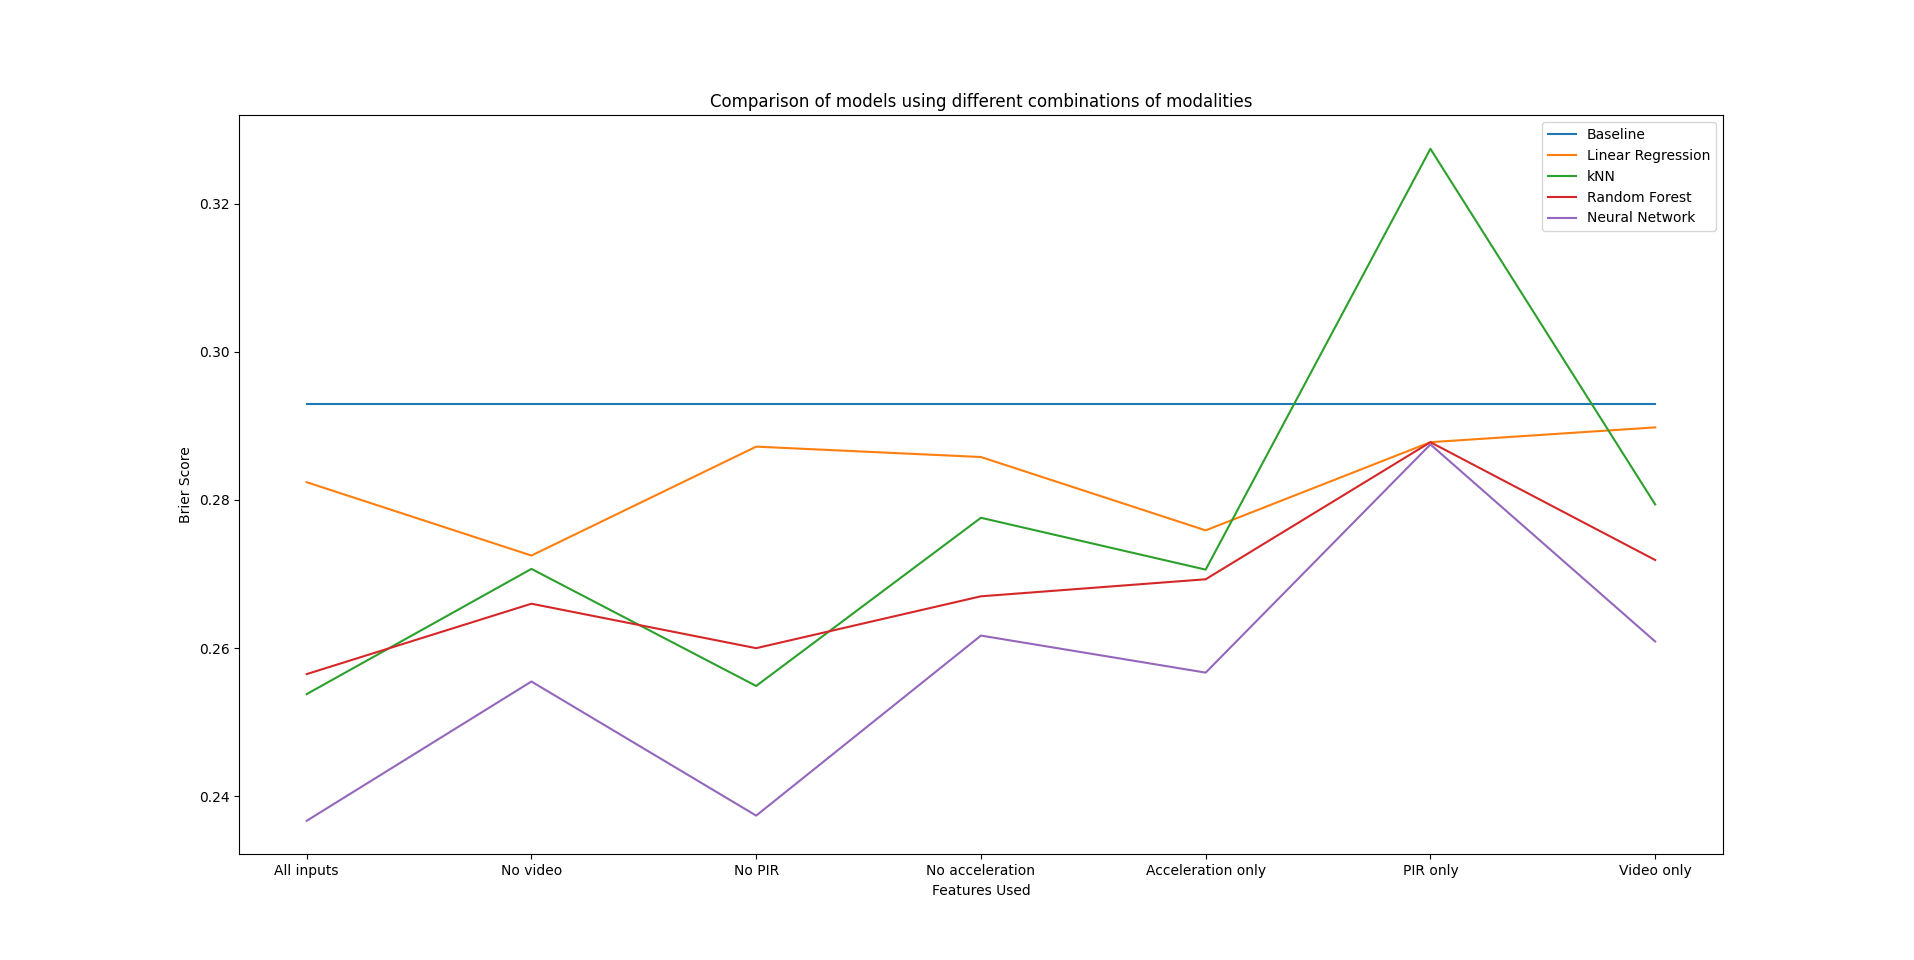
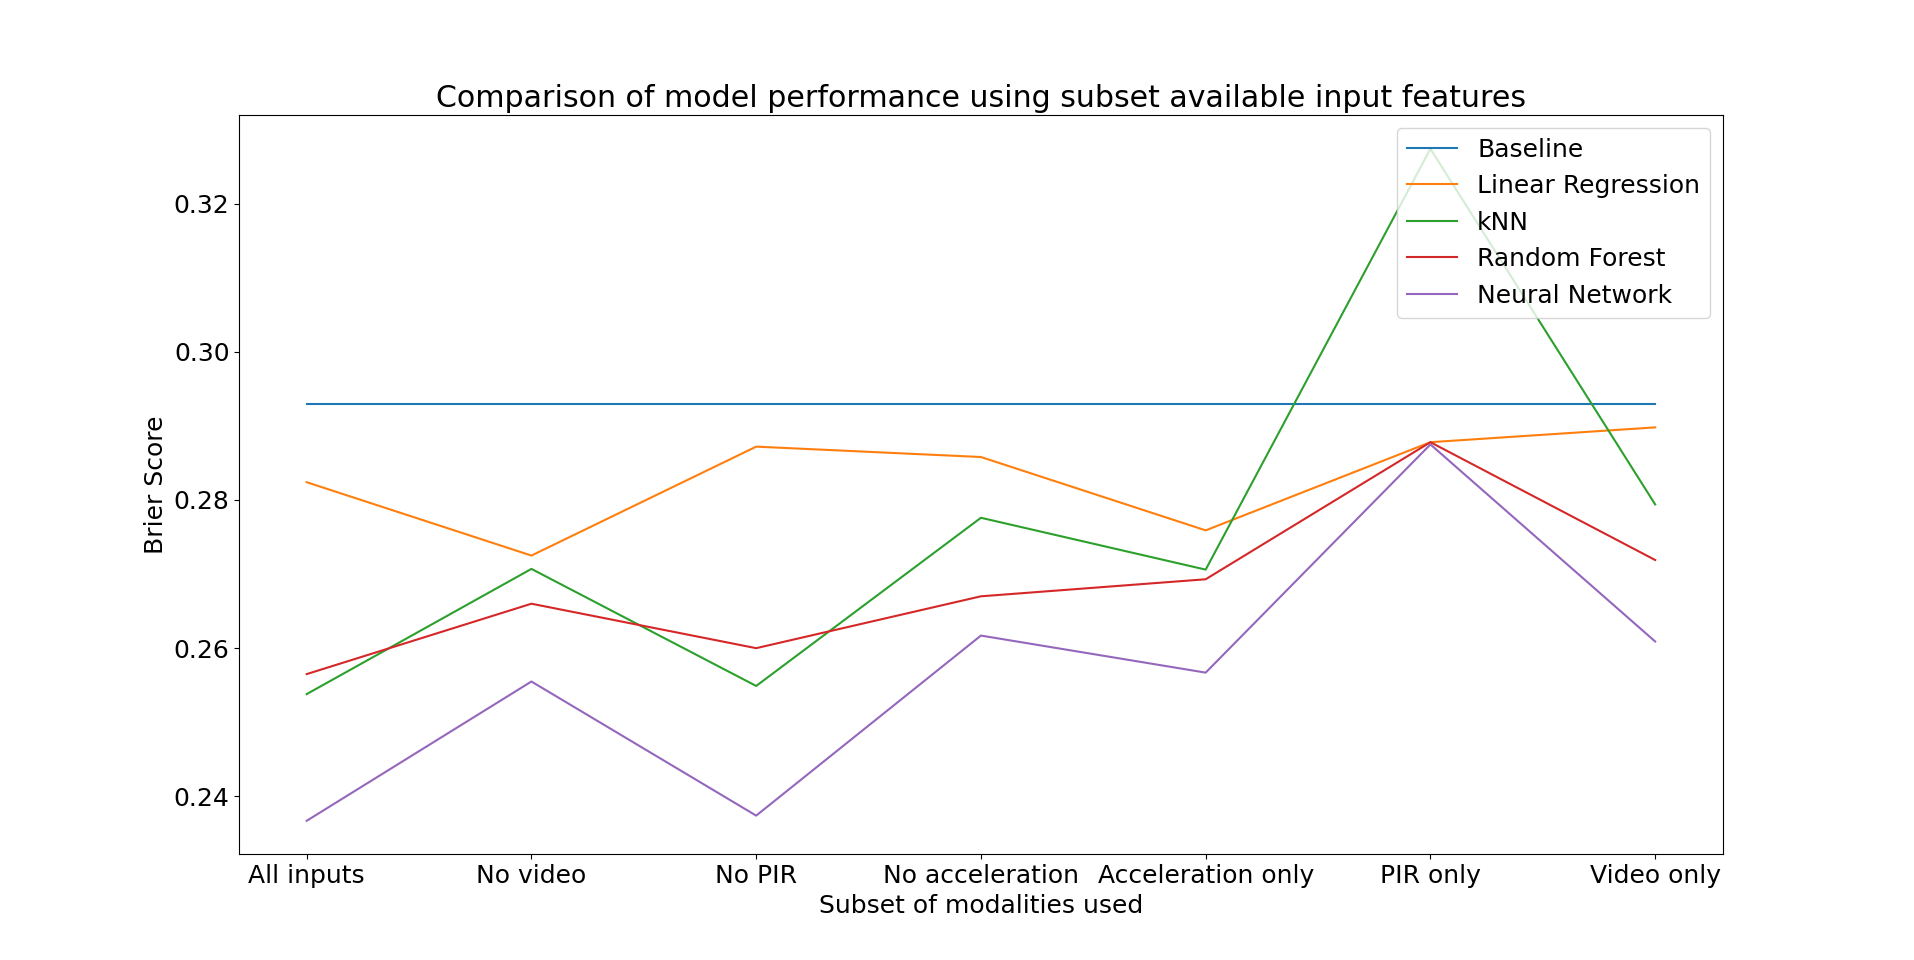
Updates

diff --git a/test_models.py b/test_models.py
@@ -1,3 +1,5 @@
+# Original Source: https://github.com/IRC-SPHERE/sphere-challenge/blob/master/jupyter/sphere-baseline.ipynb
+
 import pandas as pd
 import numpy as np
 import sklearn
@@ -118,6 +120,7 @@ df = pd.DataFrame({
 #     edgecolor='white',
 #     linewidth=1
 # )
+plt.rc('font',size=18)
 
 #plt.show()
 
@@ -350,19 +353,27 @@ def test_kNN():
     print("%%%%%%%%%%%%%%%%%%%%%%%%%%%%%%%%%%%%%%%%%%%%%%%%%%%%%%%%%%%%%%%%%%%%%%%%%%%%%%%%%%%%%")
     knn_brier_score = []
 
-    # k_range = np.power(2, range(8))
-    # # Hyper-param: k
+    k_range = np.power(2, range(8))
+    # Hyper-param: k
     # for k in k_range:
     #     print("k value: ",k)
-    #     knn_brier_score.append(knn_model(k_value=k))
+    #     knn_brier_score.append(knn_model(k_value=k,p_value=2))
+
+    #     # # Plot hyper-param
+    # plt.plot(k_range,knn_brier_score,label='Brier score WRT k')
+    # plt.xticks(k_range)
+    # plt.xlabel("k Value"); plt.ylabel("Brier Score")
+    # plt.title("kNN Hyper-parameter tuning: k")
+    # plt.show()
 
     # # Hyper-param: p
     # k_range = ['1','2']
-    # knn_brier_score.append(knn_model(k_value=32,p_value=1))
-    # knn_brier_score.append(knn_model(k_value=32,p_value=2))
+    # knn_brier_score.append(knn_model(k_value=64,p_value=1))
+    # knn_brier_score.append(knn_model(k_value=64,p_value=2))
 
     # # Plot hyper-param
     # plt.plot(k_range,knn_brier_score,label='Brier score WRT p')
+    # # plt.bar(k_range,knn_brier_score,label='Brier score WRT p')
     # plt.xticks(k_range)
     # plt.xlabel("p Value"); plt.ylabel("Brier Score")
     # plt.title("kNN Hyper-parameter tuning: p")
@@ -370,6 +381,7 @@ def test_kNN():
 
     knn_model(k_value=32,p_value=1)
     ###########################################################################################################
+# test_kNN()
 
 def test_linear_regression():
     ##########################################################################################################
@@ -384,23 +396,23 @@ def test_random_forest():
     # Random Forest Model
     # print("Random Forest Model:")
     # print("%%%%%%%%%%%%%%%%%%%%%%%%%%%%%%%%%%%%%%%%%%%%%%%%%%%%%%%%%%%%%%%%%%%%%%%%%%%%%%%%%%%%%")
-    # brier_score_list = []
-    # rf_timings = []
+    brier_score_list = []
+    rf_timings = []
 
-    # # Hyper-parameter: n_estimators
-    # n_estimators = [1,5,10,20,30,40,50,60,70]
-    # for n_e in n_estimators:
-    #     start = time.time()  
-    #     brier_score_list.append(random_forest(n_estimators=n_e,max_depth=None,max_features=1.0))
-    #     stop = time.time()
-    #     rf_timings.append((stop-start))
+    # Hyper-parameter: n_estimators
+    n_estimators = [1,5,10,20,30,40,50,60,70]
+    for n_e in n_estimators:
+        start = time.time()  
+        brier_score_list.append(random_forest(n_estimators=n_e,max_depth=None,max_features=1.0))
+        stop = time.time()
+        rf_timings.append((stop-start))
 
-    # plt.plot(n_estimators,rf_timings,label='Execution time WRT n_estimators')
-    # plt.plot(n_estimators,brier_score_list)
-    # plt.xticks(n_estimators); #plt.yticks([0.5,0.4,0.3,0.2,0.1,0])
-    # plt.xlabel("n_estimators"); plt.ylabel("Time (seconds)")
-    # plt.title("Random Forest Hyper-parameter tuning: n_estimators")
-    # plt.show()
+    plt.plot(n_estimators,rf_timings,label='Execution time WRT n_estimators')
+    plt.plot(n_estimators,brier_score_list)
+    plt.xticks(n_estimators); #plt.yticks([0.5,0.4,0.3,0.2,0.1,0])
+    plt.xlabel("n_estimators"); plt.ylabel("Time (seconds)")
+    plt.title("Random Forest Hyper-parameter tuning: n_estimators")
+    plt.show()
 
     # # Hyper-parameter: max_depth
     # max_depth_values = [10,20,30,40,50]
@@ -439,6 +451,7 @@ def test_random_forest():
 
     random_forest(n_estimators=10,max_depth=10,max_features="log2")
     ###########################################################################################################
+test_random_forest()
 
 def test_neural_network():
     ###########################################################################################################
@@ -522,7 +535,7 @@ def test_neural_network():
     # plt.title("Neural Network Hyper-parameter tuning: dropout_rate")
     # plt.show()
 
-    neural_network(learning_rate=0.001,batch_size=64,epochs=20,dropout_rate=0.4)
+    neural_network(learning_rate=0.001,batch_size=64,epochs=20,dropout_rate=0.3)
     ###########################################################################################################
 
 #test_neural_network()
@@ -580,33 +593,29 @@ def plot_results():
 
     feature_list = ["All inputs", "No video", "No PIR", "No acceleration", "Acceleration only", "PIR only", "Video only"]
 
-    # plt.plot(range(len(feature_list)),baseline_score)
-    # plt.plot(range(len(feature_list)),lr_score)
-    # plt.plot(range(len(feature_list)),knn_score)
-    # plt.plot(range(len(feature_list)),rf_score)
-    # plt.plot(range(len(feature_list)),nn_score)
+    plt.rc('font',size=18)
 
-    # plt.plot(range(len(feature_list)),baseline_time)
-    # plt.plot(range(len(feature_list)),lr_time)
-    # plt.plot(range(len(feature_list)),knn_time)
-    # plt.plot(range(len(feature_list)),rf_time)
-    # plt.plot(range(len(feature_list)),nn_time)
+    plt.plot(range(len(feature_list)),baseline_score)
+    plt.plot(range(len(feature_list)),lr_score)
+    plt.plot(range(len(feature_list)),knn_score)
+    plt.plot(range(len(feature_list)),rf_score)
+    plt.plot(range(len(feature_list)),nn_score)
 
-    plt.bar(0,baseline_time[0])
-    plt.bar(1,lr_time[0])
-    plt.bar(2,knn_time[0])
-    plt.bar(3,rf_time[0])
-    plt.bar(4,nn_time[0])
+    # plt.bar(0,baseline_score[0])
+    # plt.bar(1,lr_score[0])
+    # plt.bar(2,knn_score[0])
+    # plt.bar(3,rf_score[0])
+    # plt.bar(4,nn_score[0])
 
-    #plt.xticks(range(len(feature_list)),feature_list)
-    plt.xticks([0,1,2,3,4],["Baseline","Linear Regression", "kNN","Random Forest","Neural Network"])
-    plt.xlabel("Model")
-    plt.ylabel("Time (seconds)")
-    plt.title("Comparison of model performance using all available input features")
-    #plt.legend(["Baseline", "Linear Regression", "kNN", "Random Forest", "Neural Network"])
+    plt.xticks(range(len(feature_list)),feature_list)
+    #plt.xticks([0,1,2,3,4],["Baseline","Linear Regression", "kNN","Random Forest","Neural Network"])
+    plt.xlabel("Subset of modalities used")
+    plt.ylabel("Brier Score")
+    plt.title("Comparison of model performance using subset available input features")
+    plt.legend(["Baseline", "Linear Regression", "kNN", "Random Forest", "Neural Network"],loc="upper right")
 
 
     plt.show()
 
-plot_results()
+#plot_results()
 

diff --git a/output_breakdown.py b/output_breakdown.py
@@ -72,10 +72,12 @@ def plot_true_outputs():
             sorted_dict.pop(key)
 
 
-    #sorted_dict.pop(0.0)
+    sorted_dict.pop(0.0)
 
+    plt.rc('font',size=20)
     plt.bar(range(len(sorted_dict)), list(sorted_dict.values()), align='center')
-    plt.xticks(range(len(sorted_dict)), list(sorted_dict.keys()))
+    plt.xticks(range(len(sorted_dict)), list(sorted_dict.keys()),size=20)
+    plt.yticks(size=20)
     plt.xlabel("Target.csv values")
     plt.ylabel("Count")
     plt.title("Target.csv output breakdown")

diff --git a/visualise_data.py b/visualise_data.py
@@ -1,3 +1,6 @@
+# Original Source: https://github.com/IRC-SPHERE/sphere-challenge/blob/master/visualise_data.py
+# Modifications made to exclude certain modalities
+
 from __future__ import print_function
 
 from six import iteritems

diff --git a/load_input_csv.py b/load_input_csv.py
@@ -1,3 +1,4 @@
+# Original Source: https://github.com/IRC-SPHERE/sphere-challenge/blob/master/jupyter/sphere-baseline.ipynb
 import numpy as np
 import os
 from visualise_data import Sequence
